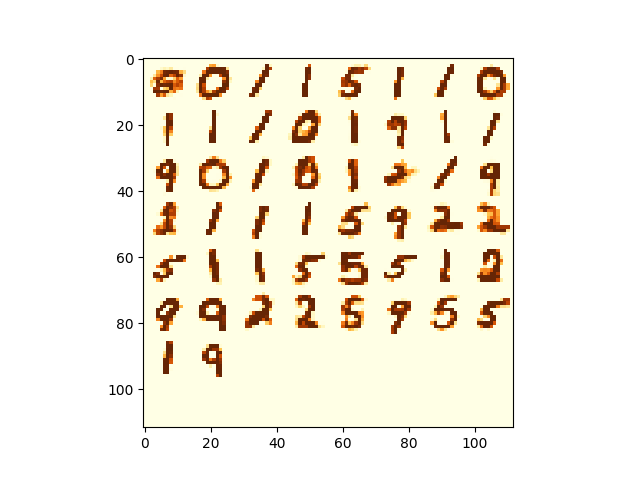
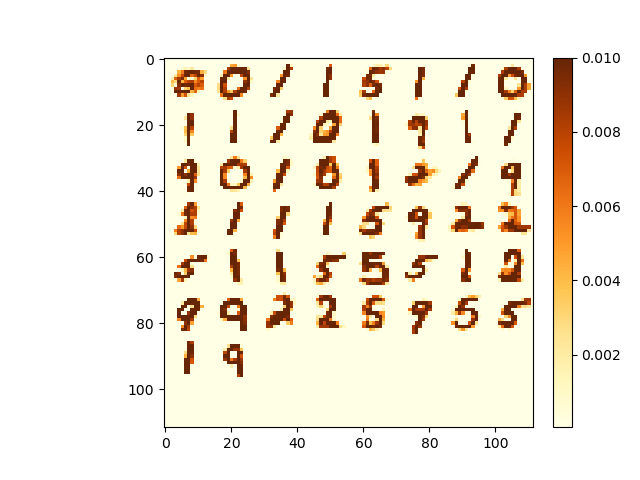
m

diff --git a/Examples/MNIST_example_2_paper2.py b/Examples/MNIST_example_2_paper2.py
@@ -1,0 +1,115 @@
+import torch
+from tqdm import tqdm
+from Network.assigment import MnistAssignment, MnistEvaluation
+from Network.visuals import plot_weights_square
+from Network.topology import Connections
+from Network.datasets import encoding_to_spikes, MNIST_train_test_14x14
+from Network.NeuronModels import NeuronLifAdaptiveThresh
+import matplotlib.pyplot as plt
+import time as t
+
+n_neurons_out = 50  # number of neurons in input layer
+n_neurons_in = 196  # number of output in input layer
+n_train =2000# number of images for training
+n_test = 1000 # number of images for testing
+time = 350  # time of each image presentation during training
+time_test = 200 # time of each image presentation during testing
+test = True  # do testing or not
+plot = True # plot graphics or not
+
+out_neurons = NeuronLifAdaptiveThresh(n_neurons_in,
+                                      n_neurons_out,
+                                      train=True,
+                                      U_mem=0,
+                                      decay=0.92,
+                                      U_tr=20/100,
+                                      U_rest=0,
+                                      refr_time=5,
+                                      traces=True,
+                                      inh=True)  # activate literal inhibition
+
+conn = Connections(n_neurons_in, n_neurons_out, "all_to_all", w_min=0.00005, w_max=0.01)
+conn.all_to_all_conn()
+conn.initialize_weights("normal")
+
+
+
+data_train = MNIST_train_test_14x14()[0]
+data_test = MNIST_train_test_14x14()[1]
+
+assig = MnistAssignment(n_neurons_out)
+
+
+
+if plot:
+    plt.ion()
+    fig = plt.figure(figsize=(6, 6))
+    ax = fig.add_subplot(111)
+    axim = ax.imshow(plot_weights_square(n_neurons_in, n_neurons_out, conn.weights), cmap='YlOrBr', vmin=0.00005, vmax=0.01)
+    plt.colorbar(axim, fraction=0.046, pad=0.04)
+
+    fig1 = plt.figure(figsize=(5, 5))
+    ax2 = fig1.add_subplot(211)
+    ax3 = fig1.add_subplot(212)
+    axim2 = ax2.imshow(torch.zeros([14, 14]), cmap='gray', vmin=0, vmax=1, interpolation='None')
+    axim3 = ax3.imshow(torch.zeros([196, 350])[::4, ::4], cmap='gray', vmin=0, vmax=1, interpolation='None')
+
+train_labels = [0, 1, 2, 9, 5]
+
+for i in tqdm(range(n_train), desc='training', colour='green', position=0):
+
+    if data_train[i][1] in train_labels:
+        input_spikes = encoding_to_spikes(data_train[i][0], time)
+
+        if plot:
+            axim.set_data(plot_weights_square(n_neurons_in, n_neurons_out, conn.weights))
+            axim2.set_data(torch.squeeze(data_train[i][0]))
+            axim3.set_data(input_spikes.reshape(196, 350)[::4, ::4])
+            fig.canvas.flush_events()
+
+        for j in range(time):
+            out_neurons.compute_U_mem(input_spikes[j].reshape(196), conn.weights)
+            out_neurons.check_spikes1()
+            assig.count_spikes_train(out_neurons.spikes, data_train[i][1])
+            conn.update_w2(out_neurons.spikes_trace_in, out_neurons.spikes_trace_out, out_neurons.spikes,0.00005,0.01,100)
+
+
+assig.get_assignment()
+assig.save_assignment()
+
+fig = plt.figure(figsize=(6, 6))
+ax = fig.add_subplot(111)
+axim = ax.imshow(plot_weights_square(n_neurons_in, n_neurons_out, conn.weights), cmap='YlOrBr', vmin=0.00005, vmax=0.01)
+plt.colorbar(axim, fraction=0.046, pad=0.04)
+fig.savefig("weights")
+evall = MnistEvaluation(n_neurons_out)
+
+conn.save_weights()
+out_neurons.save_U_thresh()
+
+out_neurons.train = False
+out_neurons.reset_variables(True, True, True)
+
+if test:
+    for i in tqdm(range(n_test), desc='test', colour='green', position=0):
+
+        if data_train[i][1] in train_labels:
+            input_spikes = encoding_to_spikes(data_train[i][0], time_test)
+
+            for j in range(time_test):
+                out_neurons.compute_U_mem(input_spikes[j].reshape(196), conn.weights)
+                out_neurons.check_spikes1()
+                evall.count_spikes(out_neurons.spikes)
+            evall.conclude(assig.assignments, data_train[i][1])
+
+evall.final()
+with open('paper2_base/11/result.txt', 'w+') as f:
+    f.write("\ntrain: " + str(train_labels))
+    f.write("\ntrain: " + str(n_train))
+    f.write("\ntest: " + str(n_test))
+    f.write("\ntime_train: " + str(time))
+    f.write("\ntime_train: " + str(time_test))
+    f.write("\nneurons out: " + str(n_neurons_out))
+    f.write("\ntrain images: " + str(0))
+
+    f.write(evall.final())

diff --git a/Network/topology.py b/Network/topology.py
@@ -1,4 +1,6 @@
 from random import random
+
+import numpy as np
 import torch
 from Network.learning import compute_dw, compute_dw1
 
@@ -64,7 +66,7 @@ class Connections:
                                                               self.n_out_neurons)  # makes matrix of weights [n_in_neurons x n_out_neurons]
         elif dis == "normal":
             self.weights = self.matrix_conn[:, 2].reshape(self.n_in_neurons, self.n_out_neurons)
-            self.weights = self.weights.normal_(mean=self.w_max*0.7, std=self.w_max*0.2)
+            self.weights = self.weights.normal_(mean=self.w_max * 0.7, std=self.w_max * 0.2)
             self.weights = torch.clamp(self.weights, min=self.w_min, max=self.w_max)
 
     def update_w(self, spike_traces_in, spike_traces_out, spikes):
@@ -98,7 +100,7 @@ class Connections:
 
         self.weights = torch.clamp(self.weights, min=self.w_min, max=self.w_max)
 
-    def update_w1(self, spike_traces_in, spike_traces_out, spikes):
+    def update_w1(self, spike_traces_in, spike_traces_out, spikes):  # модификация для реальных значений проводимости
 
         """ Take spike traces from NeuronModels, compute dw and update weights )
 
@@ -123,6 +125,49 @@ class Connections:
                 time_diff[:, i].apply_(compute_dw1)  # calling compute_dw function for each dt in matrix
 
                 self.weights[:, i] = torch.add(self.weights[:, i], time_diff[:, i])
+
+        if self.decay[0]:
+            self.weights = torch.mul(self.weights, self.decay[1])  # weight decay
+
+        self.weights = torch.clamp(self.weights, min=self.w_min, max=self.w_max)
+
+    def update_w2(self, spike_traces_in, spike_traces_out, spikes, d_min, d_max,
+                  number_states):  # модификация для реальных значений проводимости и линейного дискретного диапазона состояний
+
+        """ Take spike traces from NeuronModels, compute dw and update weights )
+
+        Args:
+            spike_traces_in : traces of input spikes_
+            spike_traces_out : traces of output spikes_
+            spikes: spikes of neurons each time step
+
+        \n example:
+        out_neurons = Neuron_IF(......)
+        update_w(out_neurons.spikes_trace_in,out_neurons.spikes_trace_out
+
+        """
+
+        spike_traces_out = spike_traces_out.repeat(self.n_in_neurons, 1)
+        spike_traces_in = spike_traces_in.reshape(self.n_in_neurons, 1).repeat(1, self.n_out_neurons)
+
+        time_diff = torch.sub(spike_traces_in, spike_traces_out)  # matrix of dt values
+
+        def find_nearest(array, value):
+            idx, val = min(enumerate(array), key=lambda x: abs(x[1] - value))
+            return val
+
+        discrete_states = np.linspace(d_min, d_max, number_states)
+
+        for i, sp in enumerate(spikes, start=0):  # updating weights (only weights of neuron that spiked)
+            if sp == 1:
+                time_diff[:, i].apply_(compute_dw1)  # calling compute_dw function for each dt in matrix
+
+                self.weights[:, i] = torch.add(self.weights[:, i], time_diff[:, i])
+
+                for j in range(len(self.weights[:, i])):  #приводим к ближайшему дискретному состоянию
+                    self.weights[:, i][j] = find_nearest(discrete_states, self.weights[:, i][j])
+
+
 
         if self.decay[0]:
             self.weights = torch.mul(self.weights, self.decay[1])  # weight decay

diff --git a/test/t.py b/test/t.py
@@ -1,29 +1,10 @@
-import time
-start_time = time.time()
-def ch(x):
-    for i in range(len(x)-1):
-        if x[i] == x[i+1]:
-            return False
-    return True
-q = 0
-sett = set()
-for i1 in 'СВЕТЛАН':
-    for i2 in 'СВЕТЛАН':
-        for i3 in 'СВЕТЛАН':
-            for i4 in 'СВЕТЛАН':
-                for i5 in 'СВЕТЛАН':
-                    for i6 in 'СВЕТЛАН':
-                        for i7 in 'СВЕТЛАН':
-                            for i8 in 'СВЕТЛАН':
-                                a = i1+i2+i3+i4+i5+i6+i7+i8
-                                #if a.count('А') == 2 and a.count('С') == 1 and a.count('В') == 1 and a.count('Е') ==1 and a.count('Т')==1 and a.count('Л') == 1 and a.count('Н') == 1:
-                                if len(set(a)) == 7 and a.count("А") == 2:
-                                    if i1 != i2 and i2 != i3 and i3 != i4 and i4 != i5 and i5 != i6 and i6 != i7 and i7 != i8 and (not(a in sett)):
-                                    #if ch(a):
-                                        sett.add(a)
-                                        q += 1
-print(q)
-end_time = time.time()  # время окончания выполнения
-execution_time = end_time - start_time  # вычисляем время выполнения
+import numpy as np
+c=np.linspace(0.00005,0.01,10)
+print(c)
 
-print(f"Время выполнения программы: {execution_time} секунд")
+def find_nearest(array,value):
+    idx,val = min(enumerate(array), key=lambda x: abs(x[1]-value))
+    return val
+f=find_nearest(c,8e-3)
+print(f)
+print(f in c)

diff --git a/Examples/plots.py b/Examples/plots.py
@@ -1,0 +1,25 @@
+import torch
+from tqdm import tqdm
+from Network.assigment import MnistAssignment, MnistEvaluation
+from Network.visuals import plot_weights_square
+from Network.topology import Connections
+from Network.datasets import encoding_to_spikes, MNIST_train_test_14x14
+from Network.NeuronModels import NeuronLifAdaptiveThresh
+import matplotlib.pyplot as plt
+n_neurons_out = 50  # number of neurons in input layer
+n_neurons_in = 196
+
+conn = Connections(n_neurons_in, n_neurons_out, "all_to_all")
+conn.all_to_all_conn()
+conn.initialize_weights("normal")
+
+
+conn.load_weights('C:/Users/anddu/Documents/GitHub/anddudkin_mem_project/Examples/paper2_1/weights_tensor.pt')
+plt.imshow(plot_weights_square(n_neurons_in, n_neurons_out, conn.weights), cmap='YlOrBr', vmin=0.00005, vmax=0.01)
+plt.colorbar(fraction=0.046, pad=0.04)
+plt.show()
+
+conn.load_weights('C:/Users/anddu/Documents/GitHub/anddudkin_mem_project/Examples/paper2_base/weights_tensor.pt')
+plt.imshow(plot_weights_square(n_neurons_in, n_neurons_out, conn.weights), cmap='YlOrBr', vmin=0, vmax=1)
+plt.colorbar(fraction=0.046, pad=0.04)
+plt.show()
